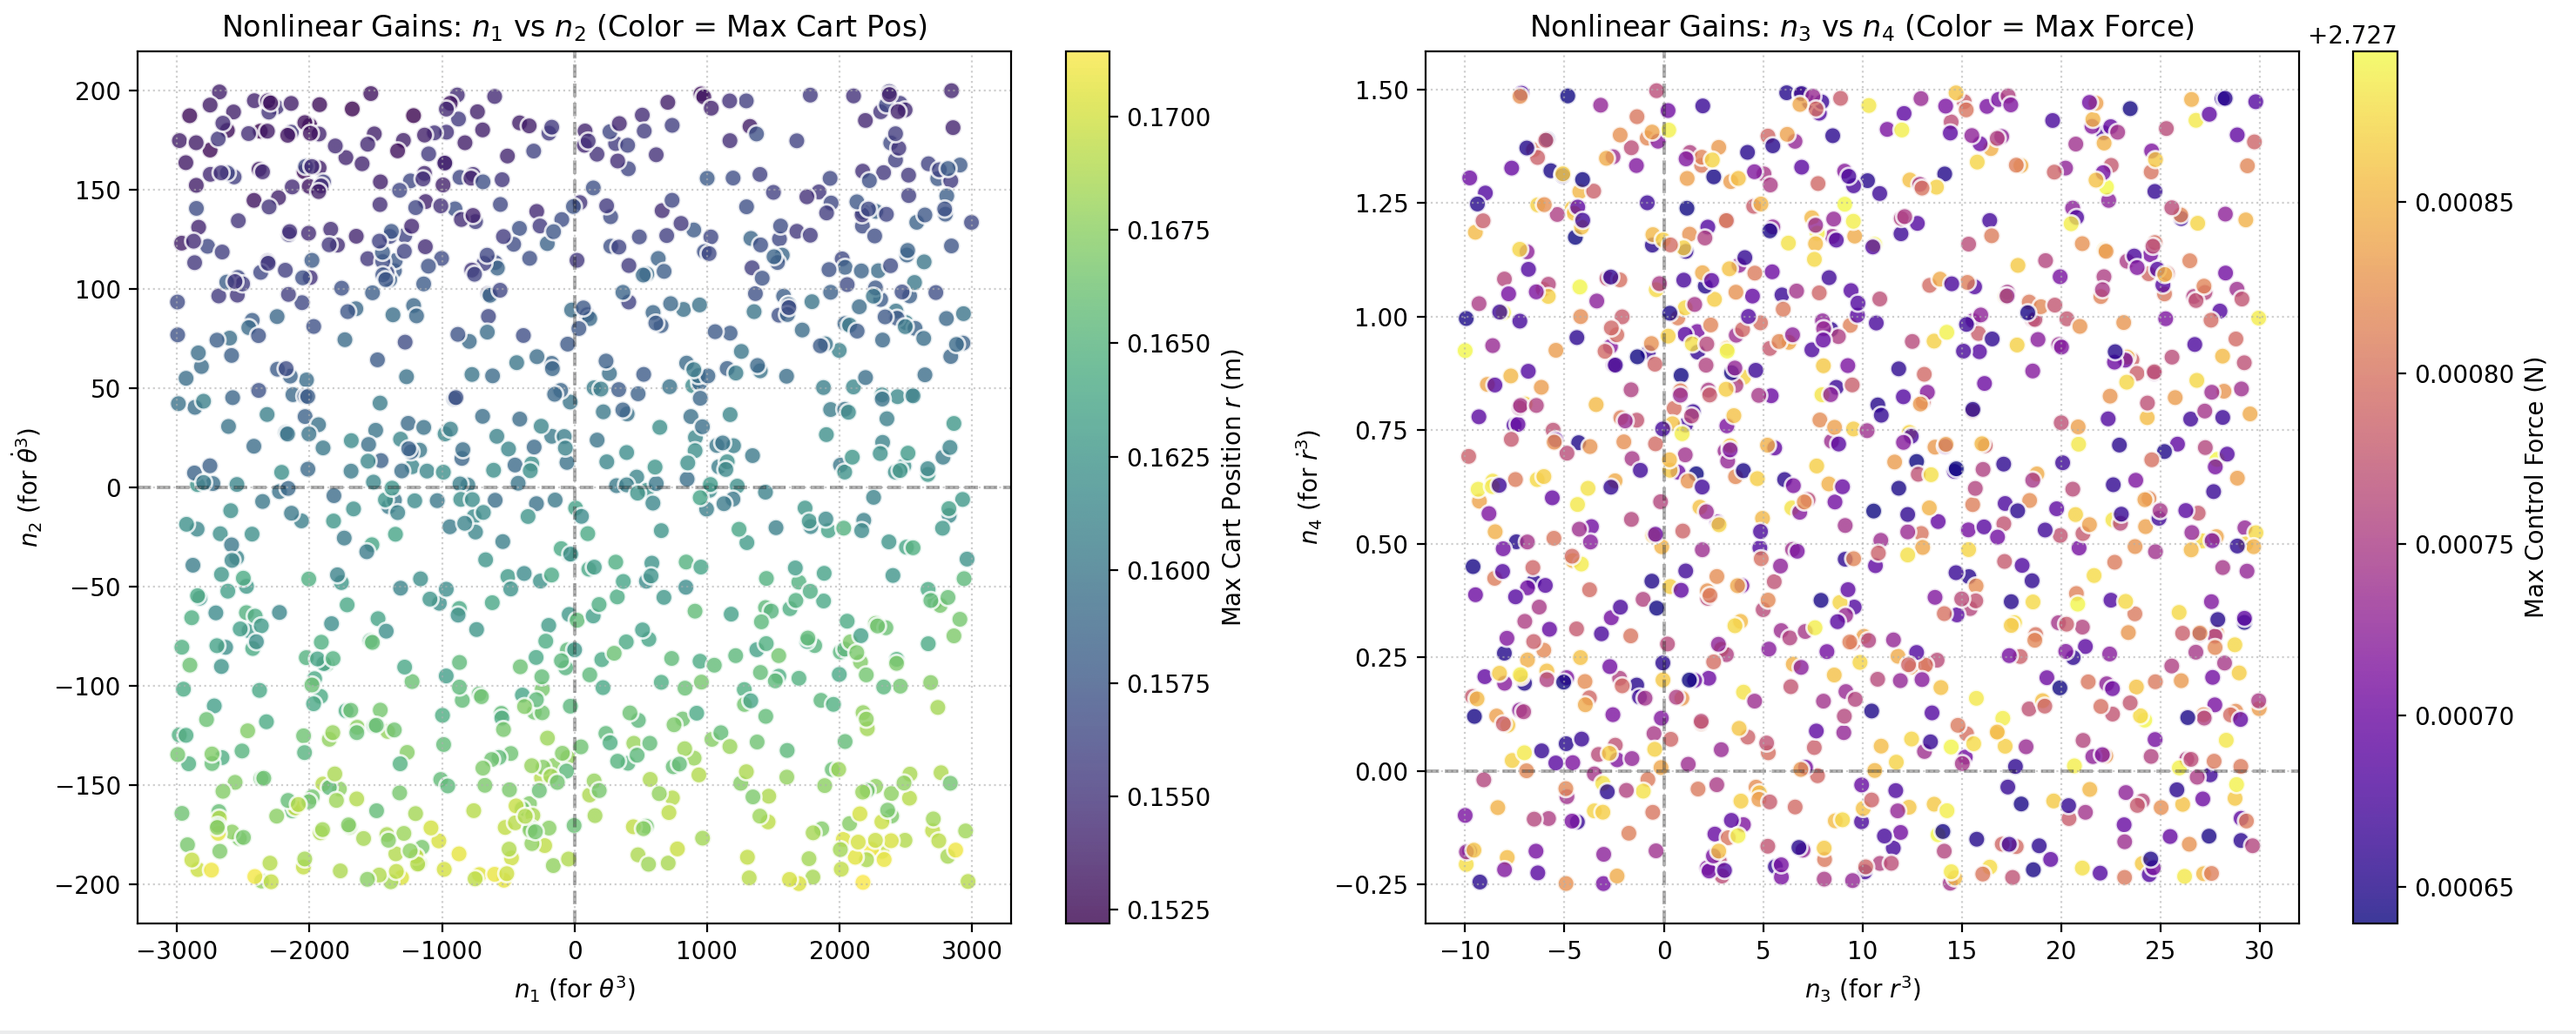
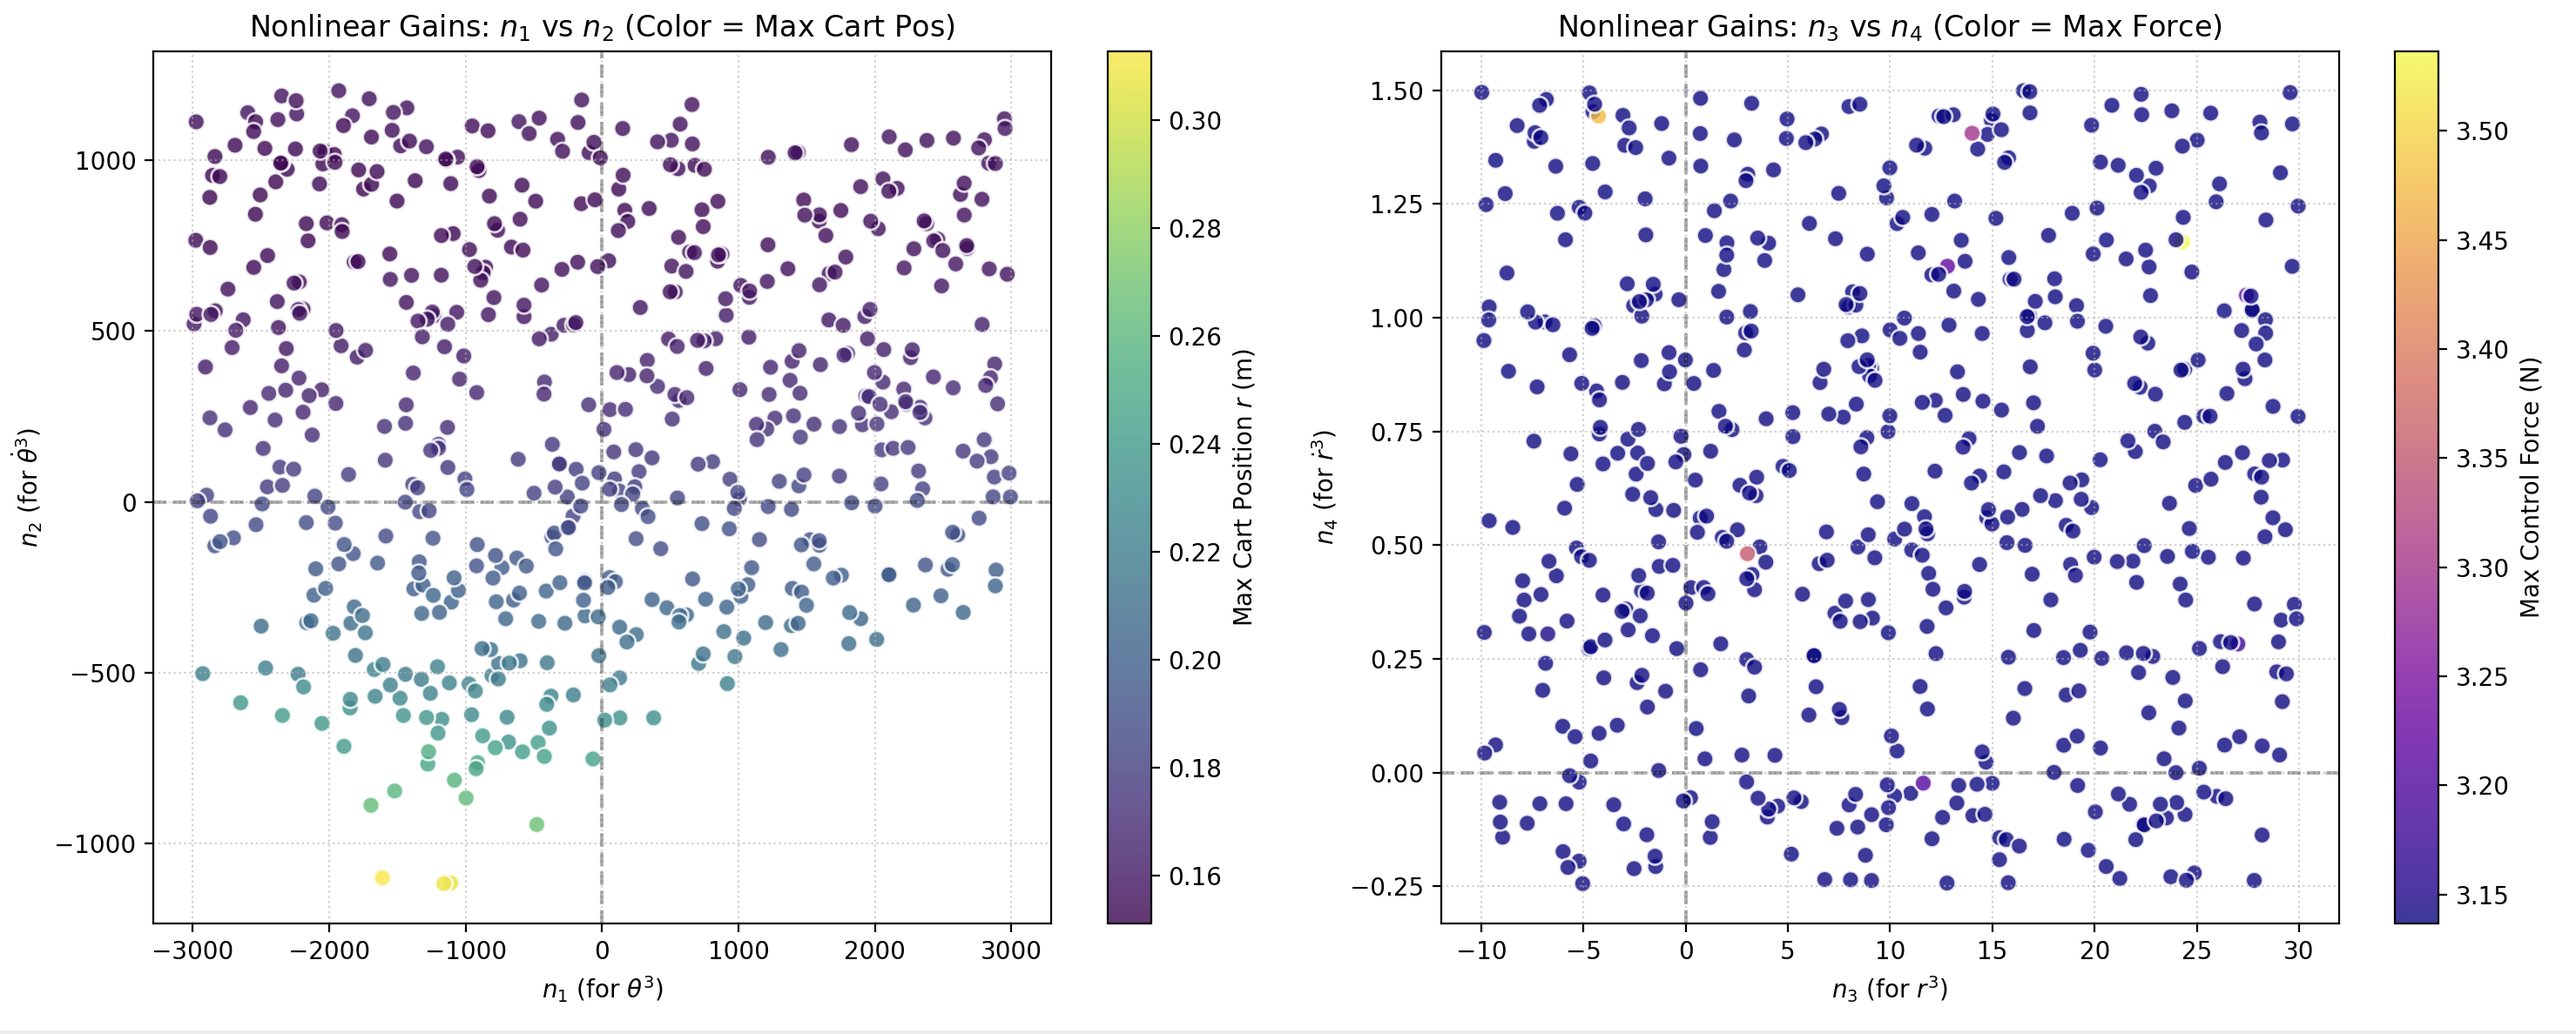
fix r magnitude

diff --git a/Utils/mcKsLat.py b/Utils/mcKsLat.py
@@ -2,11 +2,10 @@ import numpy as np
 import matplotlib.pyplot as plt
 from tqdm import tqdm
 
-# 【新增】忽略仿真探索过程中预期的溢出警告，保持控制台整洁
 np.seterr(over='ignore', invalid='ignore', under='ignore')
 
 # ==========================================
-# 1. 物理参数与基准 LQR
+# 1. LQR and params
 # ==========================================
 mass_at_end = 0.24
 m_L = 0.15 + mass_at_end
@@ -22,16 +21,14 @@ I_rod = (1/12) * 0.3 * (0.314**2) + 2 * mass_at_end * (0.157**2)
 
 K_linear = np.array([-781.4476, -146.7735, 229.6972, 41.4447])
 
-theta0_deg = 0.20
+theta0_deg = 0.23
 x0 = np.array([theta0_deg * np.pi / 180, 0.0, 0.0, 0.0])
 
 dt = 0.01 
 T_total = 6.0
 num_steps = int(T_total / dt)
 
-# ==========================================
-# 2. RK4 积分器
-# ==========================================
+# RK4
 def rk4_step(dynamics_func, t, x, dt_step):
     k1 = np.array(dynamics_func(t, x))
     k2 = np.array(dynamics_func(t + 0.5 * dt_step, x + 0.5 * dt_step * k1))
@@ -39,9 +36,6 @@ def rk4_step(dynamics_func, t, x, dt_step):
     k4 = np.array(dynamics_func(t + dt_step, x + dt_step * k3))
     return x + (dt_step / 6.0) * (k1 + 2 * k2 + 2 * k3 + k4)
 
-# ==========================================
-# 3. 蒙特卡洛遍历 (分级区间)
-# ==========================================
 N_samples = 1000
 FORCE_LIMIT = 27.6 
 
@@ -51,9 +45,8 @@ valid_n1, valid_n2, valid_n3, valid_n4 = [], [], [], []
 results_max_theta, results_max_r, results_max_force = [], [], []
 
 for k in tqdm(range(N_samples), desc="Simulating Gains", unit="iter"):
-    # 【核心修正】根据状态变量的数量级差异，分配不同的搜索区间
     n1 = np.random.uniform(-3000, 3000) # theta^3 
-    n2 = np.random.uniform(-200, 200)     # dtheta^3 
+    n2 = np.random.uniform(-1500, 1500)     # dtheta^3 
     n3 = np.random.uniform(-10, 30) # r^3 
     n4 = np.random.uniform(-0.25, 1.5)   # dr^3 
     n_params = [n1, n2, n3, n4]
@@ -61,7 +54,6 @@ for k in tqdm(range(N_samples), desc="Simulating Gains", unit="iter"):
     def dynamics(t, x):
         theta, dtheta, r, dr = x
         
-        # 【新增安全锁】如果积分器内部已经跑到离谱的值，直接切断力矩防止 NaN 扩散
         if abs(theta) > 1.5 or abs(r) > 10.0 or abs(dtheta) > 50.0:
             return [0.0, 0.0, 0.0, 0.0]
             
@@ -157,4 +149,4 @@ if len(valid_n1) > 0:
     plt.tight_layout()
     plt.show()
 else:
-    print("未能找到有效增益。请尝试缩小阻尼增益 (n2, n4) 的范围。")
+    print("No gain ranges found for (n2, n4).")

diff --git a/Documentation/Report.md b/Documentation/Report.md
@@ -426,7 +426,7 @@ And increasing the initial theta a bit (to $2 \degree$), we can thus prove that 
 
 ![alt text](Evidence/mcbounadry.png)
 
-If we take $r < 0.15m$ into consideration, the boundary for LQR will be $0.18 \degree$, and with the $\theta^3$ term, we can increase it to $0.2 \degree$.
+If we take $r < 0.15m$ into consideration, the boundary for LQR will be $0.18 \degree$, and with the $\theta^3$ term, we can increase it to $0.23 \degree$.
 
 ![alt text](Evidence/mc_boundr.png)
 
